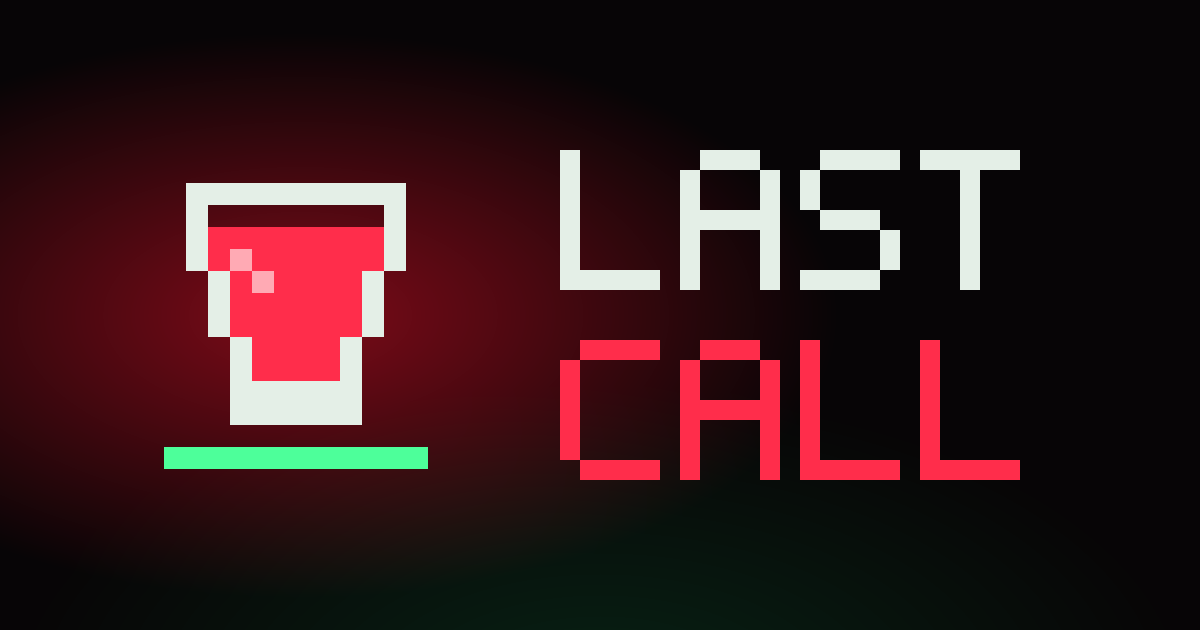
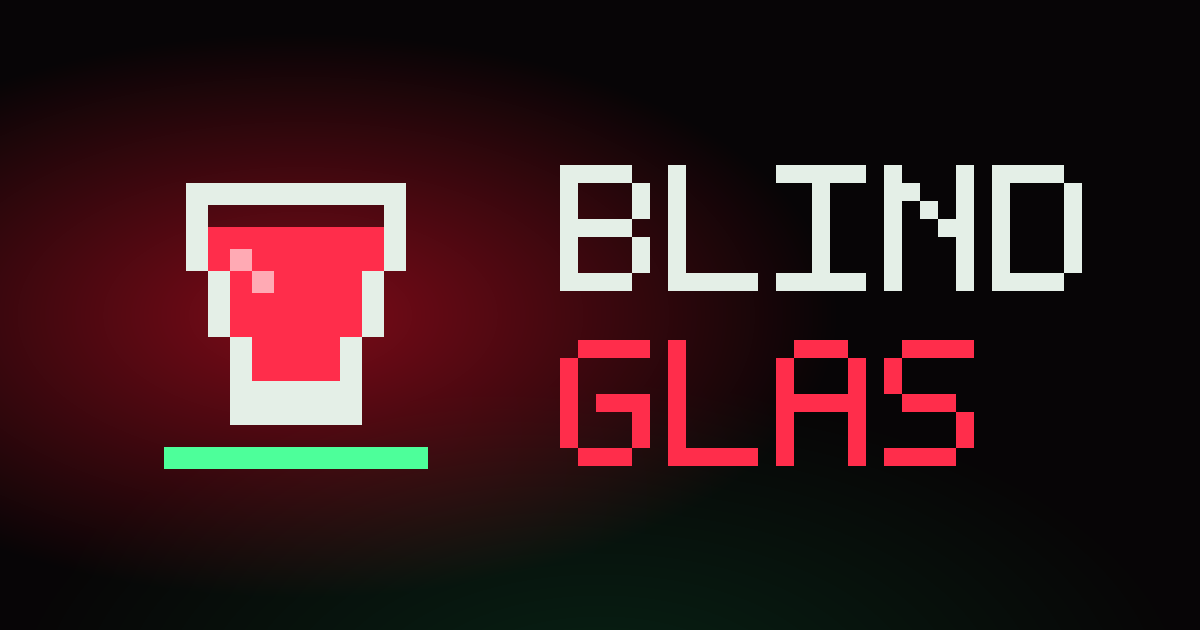
App in „Blindglas“ umbenennen
- Logo, Titelleiste, App-Name auf dem Home-Bildschirm, Seitentitel
- Neues Vorschaubild mit Schriftzug BLINDGLAS
- Texte in Regeln, Impressum/Datenschutz, Kontaktformular-Betreff, Teilen
- Interne Speicher-Schlüssel (lastcall.*) bleiben, damit Spielstände
  und Einwilligungen erhalten bleiben

Changed region(s): [[0.4625, 0.2111, 0.925, 0.4825], [0.4625, 0.5127, 0.8633, 0.7841]]

diff --git a/vite.config.ts b/vite.config.ts
@@ -27,7 +27,7 @@ const CSP = [
 
 /** Setzt die CSP als <meta>-Tag – nur im Build, damit der Entwicklungsserver (Hot Reload) weiter läuft. */
 const csp = (): Plugin => ({
-  name: 'last-call-csp',
+  name: 'blindglas-csp',
   apply: 'build',
   transformIndexHtml: (html) =>
     html.replace('<meta charset="UTF-8" />', `<meta charset="UTF-8" />\n    <meta http-equiv="Content-Security-Policy" content="${CSP}" />`),
@@ -35,7 +35,7 @@ const csp = (): Plugin => ({
 
 /** Warnt deutlich, solange in src/config/legal.ts noch Platzhalter stehen. */
 const legalPlaceholders = (): Plugin => ({
-  name: 'last-call-legal-placeholders',
+  name: 'blindglas-legal-placeholders',
   apply: 'build',
   buildStart() {
     const open = findPlaceholders(LEGAL);
@@ -54,13 +54,13 @@ const legalPlaceholders = (): Plugin => ({
  * Open-Graph-/Twitter-Tags, kanonische Adresse, robots.txt und sitemap.xml.
  */
 const seo = (): Plugin => ({
-  name: 'last-call-seo',
+  name: 'blindglas-seo',
   transformIndexHtml: (html) => {
     const image = new URL(SITE.image, SITE_URL).href;
     const tags = [
       `<link rel="canonical" href="${SITE_URL}" />`,
       `<meta property="og:type" content="website" />`,
-      `<meta property="og:site_name" content="Last Call" />`,
+      `<meta property="og:site_name" content="Blindglas" />`,
       `<meta property="og:locale" content="de_DE" />`,
       `<meta property="og:title" content="${SITE.title}" />`,
       `<meta property="og:description" content="${SITE.description}" />`,
@@ -96,8 +96,8 @@ export default defineConfig({
       registerType: 'autoUpdate',
       injectRegister: false,
       manifest: {
-        name: 'Last Call',
-        short_name: 'Last Call',
+        name: 'Blindglas',
+        short_name: 'Blindglas',
         description: 'Partyspiel für 2–6: Was ist im Glas? Nur das Handy weiß es.',
         lang: 'de',
         start_url: base,

diff --git a/src/ui/pages.ts b/src/ui/pages.ts
@@ -39,7 +39,7 @@ const link = (route: Route, label: string) => `<a href="#/${route}" data-act="ro
 const ext = (url: string, label: string) => `<a href="${url}" target="_blank" rel="noopener noreferrer">${label}</a>`;
 
 export const LIABILITY =
-  'Die Nutzung von „Last Call“ erfolgt auf eigene Verantwortung. Niemand muss mitspielen oder trinken – kein Gruppenzwang. Im Alkoholmodus gilt: verantwortungsvoll trinken, Wasser zwischendurch, und danach nie Auto fahren.';
+  'Die Nutzung von „Blindglas“ erfolgt auf eigene Verantwortung. Niemand muss mitspielen oder trinken – kein Gruppenzwang. Im Alkoholmodus gilt: verantwortungsvoll trinken, Wasser zwischendurch, und danach nie Auto fahren.';
 
 const address = () => `${esc(LEGAL.name)}<br>${esc(LEGAL.street)}<br>${esc(LEGAL.postalCity)}<br>${esc(LEGAL.country)}`;
 
@@ -61,7 +61,7 @@ export function datenschutzHtml(stats = statsConfigured()) {
   const n = (k: number) => (stats || k < 5 ? k : k - 1);
   return `
   <h1 class="page-title">Datenschutzerklärung</h1>
-  <p>Kurz gesagt: „Last Call“ läuft komplett auf deinem Gerät. Es gibt keine Konten, keine Cookies und keine Werbung. Daten verlassen dein Gerät nur beim Laden der Website${stats ? ', wenn du der anonymen Statistik zustimmst' : ''} oder wenn du mir über das Kontaktformular oder per E-Mail schreibst.</p>
+  <p>Kurz gesagt: „Blindglas“ läuft komplett auf deinem Gerät. Es gibt keine Konten, keine Cookies und keine Werbung. Daten verlassen dein Gerät nur beim Laden der Website${stats ? ', wenn du der anonymen Statistik zustimmst' : ''} oder wenn du mir über das Kontaktformular oder per E-Mail schreibst.</p>
 
   <h2>1. Verantwortlicher</h2>
   <p>${address()}<br>E-Mail: ${mailLink()}</p>

diff --git a/src/ui/app.ts b/src/ui/app.ts
@@ -672,7 +672,7 @@ function render() {
 }
 
 function topbar(s?: GameState) {
-  const title = s ? `RUNDE ${s.round}` : 'LAST CALL';
+  const title = s ? `RUNDE ${s.round}` : 'BLINDGLAS';
   return `<header class="topbar">
     <span class="topbar-title">${title}</span>
     <span class="topbar-btns">
@@ -711,7 +711,7 @@ function setupScreen() {
     </button>`;
   return `${topbar()}
   <main class="screen setup">
-    <div class="logo"><span>LAST</span><span>CALL</span></div>
+    <div class="logo"><span>BLIND</span><span>GLAS</span></div>
     <p class="tagline">${T().bad} oder Wasser? Nur das Handy weiß es.</p>
     <section class="panel">
       <h3>Modus</h3>
@@ -752,7 +752,7 @@ function setupScreen() {
 /** Teilen über das System-Menü (iPhone: WhatsApp, Nachrichten …), sonst Link kopieren. */
 async function shareApp() {
   const url = new URL(import.meta.env.BASE_URL, location.origin).href;
-  const data = { title: 'Last Call', text: 'Partyspiel fürs Handy – spielen wir eine Runde?', url };
+  const data = { title: 'Blindglas', text: 'Partyspiel fürs Handy – spielen wir eine Runde?', url };
   if (navigator.share) {
     try {
       await navigator.share(data);

diff --git a/src/config/site.ts b/src/config/site.ts
@@ -1,15 +1,15 @@
 /**
  * Öffentliche Adresse der Website – für Link-Vorschau, Suchmaschinen und die URL-Prüfung im Build.
- * Mit eigener Domain hier z. B. 'https://lastcall-spiel.de/' eintragen (mit Schrägstrich am Ende).
+ * Mit eigener Domain hier z. B. 'https://blindglas.de/' eintragen (mit Schrägstrich am Ende).
  */
 export const SITE_URL = 'https://mustix262.github.io/last-call/';
 
 export const SITE = {
-  title: 'Last Call – Partyspiel fürs Handy',
+  title: 'Blindglas – Partyspiel fürs Handy',
   description:
     'Partyspiel für 2–6 Leute: Das Handy füllt die Gläser, nur es weiß, was drin ist. Alkoholfrei oder mit Alkoholmodus ab 18. Kostenlos, ohne Anmeldung, läuft offline.',
   image: 'og-image.png',
-  imageAlt: 'Pixel-Schnapsglas und Schriftzug LAST CALL',
+  imageAlt: 'Pixel-Glas und Schriftzug BLINDGLAS',
 };
 
 export const siteHost = () => new URL(SITE_URL).host;

diff --git a/index.html b/index.html
@@ -7,11 +7,11 @@
     <meta name="apple-mobile-web-app-capable" content="yes" />
     <meta name="mobile-web-app-capable" content="yes" />
     <meta name="apple-mobile-web-app-status-bar-style" content="black-translucent" />
-    <meta name="apple-mobile-web-app-title" content="Last Call" />
+    <meta name="apple-mobile-web-app-title" content="Blindglas" />
     <meta name="description" content="Partyspiel für 2–6: Was ist im Glas? Nur das Handy weiß es." />
     <link rel="apple-touch-icon" href="apple-touch-icon.png" />
     <link rel="icon" type="image/png" href="icon-192.png" />
-    <title>Last Call</title>
+    <title>Blindglas</title>
   </head>
   <body>
     <div id="app"></div>

diff --git a/src/config/legal.ts b/src/config/legal.ts
@@ -22,7 +22,7 @@ export const LEGAL: LegalConfig = {
   email: { user: 'm.demiral2', domain: 'icloud.com' },
   /** Formspree-Formular-ID, z. B. "xyzabcde" aus https://formspree.io/f/xyzabcde */
   formspreeId: 'mdeeeoyn',
-  /** GoatCounter-Code, z. B. "lastcall" für https://lastcall.goatcounter.com */
+  /** GoatCounter-Code, z. B. "mdemiral" für https://mdemiral.goatcounter.com */
   goatcounterCode: 'mdemiral',
   /** Für mich zuständige Datenschutz-Aufsichtsbehörde. */
   authority: {

diff --git a/src/legal/contact.ts b/src/legal/contact.ts
@@ -63,7 +63,7 @@ export async function sendContact(f: ContactFields, env: ContactEnv): Promise<Se
         name: f.name.trim(),
         email: f.email.trim(),
         message: f.message.trim(),
-        _subject: 'Last Call – Kontaktformular',
+        _subject: 'Blindglas – Kontaktformular',
       }),
     });
     if (res.ok) return { status: 'ok' };

diff --git a/src/ui/rules.ts b/src/ui/rules.ts
@@ -10,7 +10,7 @@ export function rulesHtml(mode: GameMode) {
     (id) => `<li>${itemIcon(id)}<span><b>${itemName(id, mode)}</b> – ${itemText(id, mode)}</span></li>`,
   ).join('');
   return `
-  <h2>So läuft „Last Call“</h2>
+  <h2>So läuft „Blindglas“</h2>
   <p class="warn">${LIABILITY}</p>
   <h3>Zwei Modi</h3>
   <ul class="rules-list">

diff --git a/src/legal/consent.ts b/src/legal/consent.ts
@@ -11,6 +11,7 @@ export interface KeyValueStore {
   removeItem(key: string): void;
 }
 
+// Schlüssel stammen noch vom alten Namen „Last Call“ – bleiben so, damit Entscheidungen erhalten bleiben
 export const STATS_KEY = 'lastcall.stats.v1';
 export const AGE_KEY = 'lastcall.age18.v1';
 

diff --git a/src/ui/storage.ts b/src/ui/storage.ts
@@ -1,5 +1,6 @@
 import type { GameEvent, GameState, Settings } from '../game/types';
 
+// Schlüssel stammen noch vom alten Namen „Last Call“ – bleiben so, damit gespeicherte Spiele erhalten bleiben
 const GAME_KEY = 'lastcall.game.v1';
 const PREFS_KEY = 'lastcall.prefs.v1';
 

diff --git a/README.md b/README.md
@@ -1,4 +1,4 @@
-# Last Call
+# Blindglas
 
 Ein Partyspiel für 2–6 Leute als Web-App fürs Handy: Das Handy füllt virtuelle Gläser – nur es weiß, welches was enthält. Zwei Modi: **Klassisch** (alkoholfrei, Zitrone & Limo) und **Alkoholmodus** (Schnaps & Bier, nur ab 18, mit Altersabfrage). Pass-and-Play reihum, optional mit Shot-Limit und Sieger. Läuft komplett offline, ohne Konten, ohne Cookies; Statistik nur mit Einwilligung.
 
@@ -33,7 +33,7 @@ npm run icons    # App-Icons neu erzeugen
    ```bash
    git init
    git add .
-   git commit -m "Last Call"
+   git commit -m "Blindglas"
    git branch -M main
    git remote add origin https://github.com/<dein-name>/last-call.git
    git push -u origin main
@@ -47,6 +47,6 @@ Jeder weitere Push auf `main` veröffentlicht automatisch eine neue Version. Die
 
 1. Die GitHub-Pages-Adresse in **Safari** öffnen.
 2. Teilen-Symbol (Quadrat mit Pfeil) → **„Zum Home-Bildschirm“** → Hinzufügen.
-3. Last Call einmal mit Internet starten – danach läuft es auch offline.
+3. Blindglas einmal mit Internet starten – danach läuft es auch offline.
 
 Lizenzen: siehe [LICENSES.md](LICENSES.md).

diff --git a/LICENSES.md b/LICENSES.md
@@ -2,7 +2,7 @@
 
 ## Eigene Inhalte
 
-Alle Grafiken (Pixel-Icons für Gläser und Items, App-Icon), Animationen (CSS) und Soundeffekte (zur Laufzeit mit der Web Audio API erzeugt) wurden für „Last Call“ selbst erstellt. Es werden keine fremden Bild- oder Tondateien verwendet. Alle Regel- und Item-Texte sind eigene Formulierungen.
+Alle Grafiken (Pixel-Icons für Gläser und Items, App-Icon), Animationen (CSS) und Soundeffekte (zur Laufzeit mit der Web Audio API erzeugt) wurden für „Blindglas“ selbst erstellt. Es werden keine fremden Bild- oder Tondateien verwendet. Alle Regel- und Item-Texte sind eigene Formulierungen.
 
 ## Schriftarten (in der App mitgeliefert, nicht extern geladen)
 
